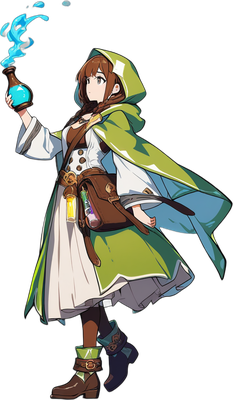
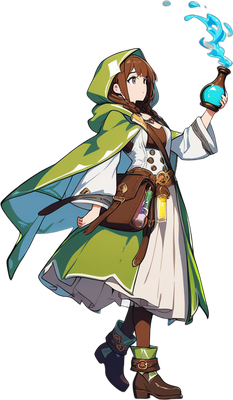
v0.15.1: 新キャラ4体の向きを修正、戦闘中に部屋が落ちるバグを修正
【向き】プレイヤーは5体とも左向きに描かれるが、1番だけ反転指定していた
ため、追加した2〜5番が敵と同じ方向を向いていた。既存の画像を反転し、
subjects.json の flip にも5体すべてを登録した(再生成しても揃う)。

【戦闘中に部屋が落ちる】ロビーと戦闘部屋は別々の接続なのに、ロビーの
切断処理が戦闘中かどうかを見ずに #coop-view を隠してログイン画面へ
戻していた。ロビーが一瞬切れただけで戦闘画面が消えるため「部屋が落ちた」
ように見えていた。戦闘中は画面を切り替えないようにした(繋ぎ直した時に
ロビーを前面に出してしまう経路も同様に塞いだ)。

あわせて、中断や決着の知らせが無いまま共闘の接続が切れた場合は
「通信が切れた」と伝えるようにした(黙って戻ると原因が分からないため)。

test/battle_lobby_drop_check.ts を追加。実ブラウザで共闘部屋に入り、
外から同じ名前でロビーに入り直して古い接続を閉じさせ、戦闘画面が
残ることを確認する。修正前のコードでは2項目が失敗することも確認済み。

diff --git a/test/battle_lobby_drop_check.ts b/test/battle_lobby_drop_check.ts
@@ -1,0 +1,170 @@
+// 戦闘中にロビーの接続だけが切れても、戦闘画面が消えないことを確かめる。
+//
+// ロビーと戦闘部屋は別々の接続。以前はロビーが切れると戦闘画面まで隠して
+// ログイン画面に戻していたため、「戦闘中に勝手に部屋が落ちる」ように見えていた。
+//
+// 実際のブラウザで共闘部屋に入り、外から同じ名前でロビーに入り直して
+// (= サーバーが古いロビー接続を閉じる)、戦闘画面が残るかを見る。
+//
+//   npx tsx test/battle_lobby_drop_check.ts   (サーバー起動済みであること)
+
+import { spawn } from 'node:child_process';
+import { mkdtempSync, rmSync } from 'node:fs';
+import { tmpdir } from 'node:os';
+import { join } from 'node:path';
+import { Client } from 'colyseus.js';
+
+const BASE = process.env.MADOKEN_ENDPOINT ?? 'http://127.0.0.1:2567';
+const WS = BASE.replace(/^http/, 'ws');
+const CHROME = process.env.CHROME_PATH
+  ?? 'C:\\Program Files\\Google\\Chrome\\Application\\chrome.exe';
+const PORT = 9338;
+
+const RUN = Math.random().toString(36).slice(2, 7);
+const NAME = `tB${RUN}`;
+const TOKEN = `tok${RUN}`;
+
+let failures = 0;
+function check(label: string, ok: boolean, detail = ''): void {
+  console.log(`${ok ? '✓' : '✗'} ${label}${detail ? ` — ${detail}` : ''}`);
+  if (!ok) failures++;
+}
+
+const sleep = (ms: number) => new Promise(r => setTimeout(r, ms));
+
+const SAVE = {
+  version: 1, nickname: NAME, nickToken: TOKEN, charId: 0, researchP: 100,
+  inventory: { fire: 9, water: 9, wind: 9, earth: 9, thunder: 5, ice: 5, light: 5, dark: 5 },
+  spells: [{
+    id: 's1', name: '炎の魔弾', recipe: { fire: 2 },
+    discoveries: [], level: 0, rarity: 'normal',
+  }],
+  equipped: ['s1'], discovered: [], slots: 4, maxStage: 3, bestStage: 2,
+  bossCleared: [], sortByPower: false, codexRewarded: false,
+};
+
+class Cdp {
+  private ws!: WebSocket;
+  private id = 0;
+  private waiting = new Map<number, (v: any) => void>();
+
+  async connect(url: string): Promise<void> {
+    this.ws = new WebSocket(url);
+    await new Promise<void>((res, rej) => {
+      this.ws.onopen = () => res();
+      this.ws.onerror = () => rej(new Error('CDPに接続できない'));
+    });
+    this.ws.onmessage = ev => {
+      const m = JSON.parse(String(ev.data));
+      const fn = this.waiting.get(m.id);
+      if (fn) { this.waiting.delete(m.id); fn(m); }
+    };
+  }
+
+  send(method: string, params: unknown = {}): Promise<any> {
+    const id = ++this.id;
+    return new Promise(res => {
+      this.waiting.set(id, res);
+      this.ws.send(JSON.stringify({ id, method, params }));
+    });
+  }
+
+  async evaluate<T>(expression: string): Promise<T> {
+    const r = await this.send('Runtime.evaluate', {
+      expression, awaitPromise: true, returnByValue: true,
+    });
+    return r.result?.result?.value as T;
+  }
+
+  close(): void { this.ws.close(); }
+}
+
+const visible = (sel: string) =>
+  `(() => { const e = document.querySelector('${sel}');`
+  + ' return !!e && !e.classList.contains(\'hidden\'); })()';
+
+async function main(): Promise<void> {
+  console.log('=== 戦闘中のロビー切断で戦闘画面が消えないかの検証 ===');
+  console.log(`対象: ${BASE}  名前: ${NAME}`);
+
+  const profile = mkdtempSync(join(tmpdir(), 'madoken-bl-'));
+  const chrome = spawn(CHROME, [
+    '--headless=new', `--remote-debugging-port=${PORT}`,
+    `--user-data-dir=${profile}`, '--no-first-run', '--no-default-browser-check',
+    '--window-size=1100,900', 'about:blank',
+  ], { stdio: 'ignore' });
+
+  const cdp = new Cdp();
+  let intruder: Awaited<ReturnType<Client['joinOrCreate']>> | null = null;
+
+  try {
+    let wsUrl = '';
+    for (let i = 0; i < 40 && !wsUrl; i++) {
+      await sleep(500);
+      try {
+        const list = await fetch(`http://127.0.0.1:${PORT}/json/list`)
+          .then(r => r.json() as Promise<{ type: string; webSocketDebuggerUrl: string }[]>);
+        wsUrl = list.find(t => t.type === 'page')?.webSocketDebuggerUrl ?? '';
+      } catch { /* まだ */ }
+    }
+    if (!wsUrl) { check('ヘッドレスChromeの起動', false); return; }
+    await cdp.connect(wsUrl);
+    await cdp.send('Runtime.enable');
+    await cdp.send('Page.enable');
+
+    // セーブを入れてから読み込む(ニックネーム登録済み = 自動でオンラインに繋がる)
+    await cdp.send('Page.navigate', { url: BASE });
+    await sleep(1500);
+    await cdp.evaluate(
+      `localStorage.setItem('magic_web_game_save_v1', ${JSON.stringify(JSON.stringify(SAVE))})`);
+    await cdp.send('Page.navigate', { url: BASE });
+
+    const online = await until(cdp, visible('#online-lobby'), 90000);
+    check('ロビーに接続できた', online);
+    if (!online) return;
+
+    // 共闘部屋を作って戦闘画面へ
+    await cdp.evaluate("document.querySelector('#tab-online').click()");
+    await sleep(400);
+    await cdp.evaluate("document.querySelector('#btn-create-room').click()");
+    const inCoop = await until(cdp, visible('#coop-view'), 30000);
+    check('共闘部屋に入れた', inCoop);
+    if (!inCoop) return;
+
+    // 外から同じ名前でロビーへ = サーバーが古いロビー接続を閉じる
+    const client = new Client(WS);
+    intruder = await client.joinOrCreate('lobby_chat', { name: NAME, nickToken: TOKEN });
+    intruder.onMessage('*', () => { /* 受け取るだけ */ });
+    await sleep(4000);
+
+    check('ロビーが切れても共闘画面が残る',
+      await cdp.evaluate<boolean>(visible('#coop-view')));
+    check('ログイン画面に戻されない',
+      !(await cdp.evaluate<boolean>(visible('#online-login'))));
+    check('ロビー画面が戦闘の上に出てこない',
+      !(await cdp.evaluate<boolean>(visible('#online-lobby'))));
+  } finally {
+    try { await intruder?.leave(); } catch { /* 無視 */ }
+    cdp.close();
+    chrome.kill();
+    try { rmSync(profile, { recursive: true, force: true }); } catch { /* 無視 */ }
+    await fetch(`${BASE}/api/name/release`, {
+      method: 'POST', headers: { 'Content-Type': 'application/json' },
+      body: JSON.stringify({ name: NAME, token: TOKEN }),
+    }).catch(() => undefined);
+  }
+
+  console.log(failures === 0 ? '\n=== 合格 ===' : `\n=== ${failures}件 失敗 ===`);
+  process.exit(failures === 0 ? 0 : 1);
+}
+
+async function until(cdp: Cdp, expr: string, ms: number): Promise<boolean> {
+  const end = Date.now() + ms;
+  while (Date.now() < end) {
+    if (await cdp.evaluate<boolean>(expr)) return true;
+    await sleep(300);
+  }
+  return false;
+}
+
+void main();

diff --git a/src/coop.ts b/src/coop.ts
@@ -71,6 +71,8 @@ export class CoopView {
   private statusEls: { card: HTMLElement; hpFill: HTMLElement; hpText: HTMLElement }[] = [];
   private statusBuilt = false;
   private waitingHtml = '';
+  // 中断/決着の通知を受け取ったか。受け取らずに切れた場合は通信不良。
+  private toldWhy = false;
 
   private $(sel: string): HTMLElement {
     return document.querySelector(sel) as HTMLElement;
@@ -101,6 +103,7 @@ export class CoopView {
     this.fxs = [];
     this.statusBuilt = false;
     this.waitingHtml = '';
+    this.toldWhy = false;
     this.$('#coop-enemy-status').innerHTML = '';
     this.$('#coop-overlay').classList.add('hidden');
 
@@ -388,6 +391,7 @@ export class CoopView {
 
     // 誰かが離脱 → 前ステージまでのクリア扱いで全員ロビーへ
     room.onMessage('aborted', (m: { name: string; clearedStage: number }) => {
+      this.toldWhy = true;
       const overlay = this.$('#coop-overlay');
       overlay.innerHTML =
         `<div class="result-box">` +
@@ -400,18 +404,20 @@ export class CoopView {
     });
 
     room.onMessage('result', (m: { win: boolean; drops: ElementId[]; rp: number }) => {
+      this.toldWhy = true;
       this.showResult(m);
     });
 
     // 同じ名前で別の戦闘部屋に入った(部屋の乱立を防ぐためサーバーが閉じる)。
     // 本番のプロキシ越しでは切断が伝わらないことがあるので、通知を受けた時点で抜ける。
     room.onMessage('replaced', () => {
+      this.toldWhy = true;
       showToast('別の部屋に入ったため、こちらの部屋からは退出した。');
       void room.leave();
       this.handleExit();
     });
-    room.onLeave(() => this.handleExit());
-    room.onError(() => this.handleExit());
+    room.onLeave(() => this.leftUnexpectedly());
+    room.onError(() => this.leftUnexpectedly());
   }
 
   private showResult(m: { win: boolean; drops: ElementId[]; rp: number }): void {
@@ -448,6 +454,14 @@ export class CoopView {
     overlay.querySelector('#btn-coop-back')?.addEventListener('click', () => {
       this.exitNow();
     });
+  }
+
+  // 中断や決着の知らせが無いまま切れた場合は、理由を伝えてから戻る
+  private leftUnexpectedly(): void {
+    if (!this.exited && !this.toldWhy) {
+      showToast('通信が切れたため共闘から退出した。ロビーで入り直してください。');
+    }
+    this.handleExit();
   }
 
   private handleExit(): void {

diff --git a/src/lobby.ts b/src/lobby.ts
@@ -120,6 +120,13 @@ export function initOnline(): void {
   }
 }
 
+// 共闘か決闘の画面を開いている最中か。
+// ロビーの接続が切れたり繋ぎ直したりしても、この間は画面を切り替えてはいけない。
+function inBattleView(): boolean {
+  return !$('#coop-view').classList.contains('hidden')
+    || !$('#duel-view').classList.contains('hidden');
+}
+
 // 自動接続で入った場合は、切断されたら黙って繋ぎ直す
 let autoConnect = false;
 let reconnectTimer: number | undefined;
@@ -193,8 +200,12 @@ async function connect(): Promise<void> {
     wireLobby(lobbyRoom);
 
     autoConnect = true; // 以後は切断されても自動で繋ぎ直す
-    $('#online-login').classList.add('hidden');
-    $('#online-lobby').classList.remove('hidden');
+    // 戦闘中に繋ぎ直した場合、ロビーを出すと戦闘画面が隠れてしまう。
+    // 戦闘が終わったときに enterCoop/joinDuel の後始末がロビーを出す。
+    if (!inBattleView()) {
+      $('#online-login').classList.add('hidden');
+      $('#online-lobby').classList.remove('hidden');
+    }
     $('#online-msg').textContent = '';
 
     renderStageOptions();
@@ -233,9 +244,13 @@ function wireLobby(room: Room): void {
   room.onStateChange(() => renderMembers());
   room.onLeave((code?: number) => {
     lobbyRoom = null;
-    $('#online-lobby').classList.add('hidden');
-    $('#coop-view').classList.add('hidden');
-    $('#online-login').classList.remove('hidden');
+    // ロビーと戦闘部屋は別々の接続。ロビーが切れても戦闘は続いているので、
+    // 戦闘中は画面を切り替えない(切り替えると戦闘画面が消えて
+    // 「部屋が落ちた」ように見える)。
+    if (!inBattleView()) {
+      $('#online-lobby').classList.add('hidden');
+      $('#online-login').classList.remove('hidden');
+    }
     // 同じ名前で別の場所から入り直された場合は、繋ぎ直すと取り合いになる
     if (replaced || code === CODE_REPLACED) {
       autoConnect = false;

diff --git a/shared/version.ts b/shared/version.ts
@@ -1,5 +1,5 @@
 // バージョン情報(更新時はここだけ書き換える)
 
-export const VERSION = '0.15.0';
-export const BUILD_DATE = '2026-08-02 10:30';
+export const VERSION = '0.15.1';
+export const BUILD_DATE = '2026-08-02 10:52';
 export const COPYRIGHT = 'Copyright © 2026 YuriPapa';
